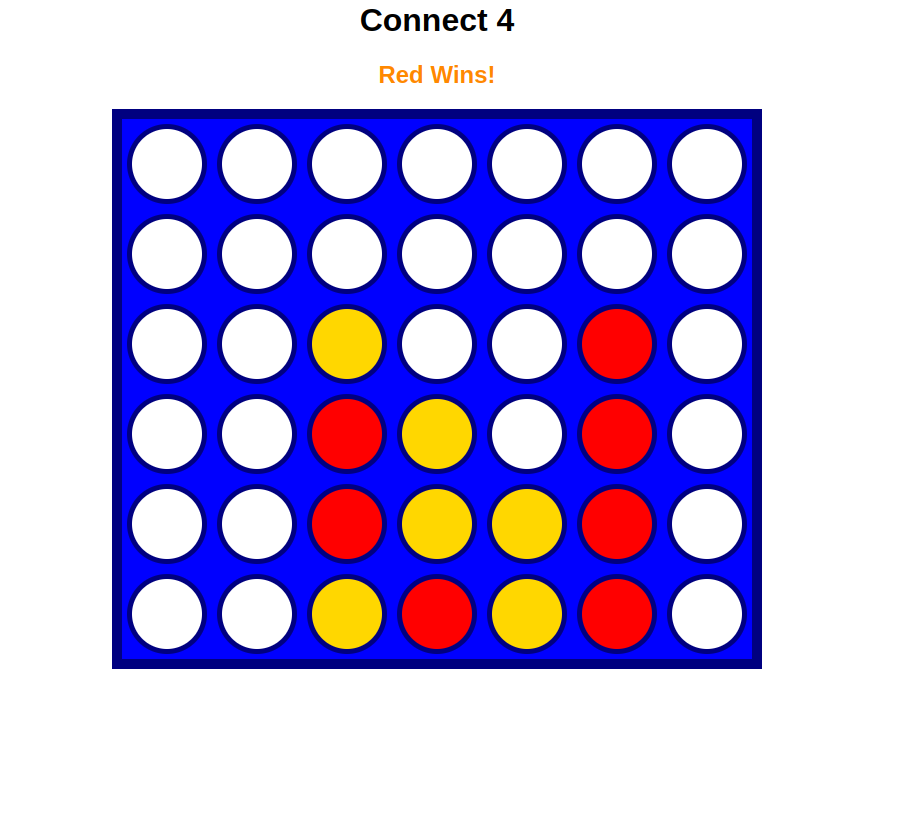
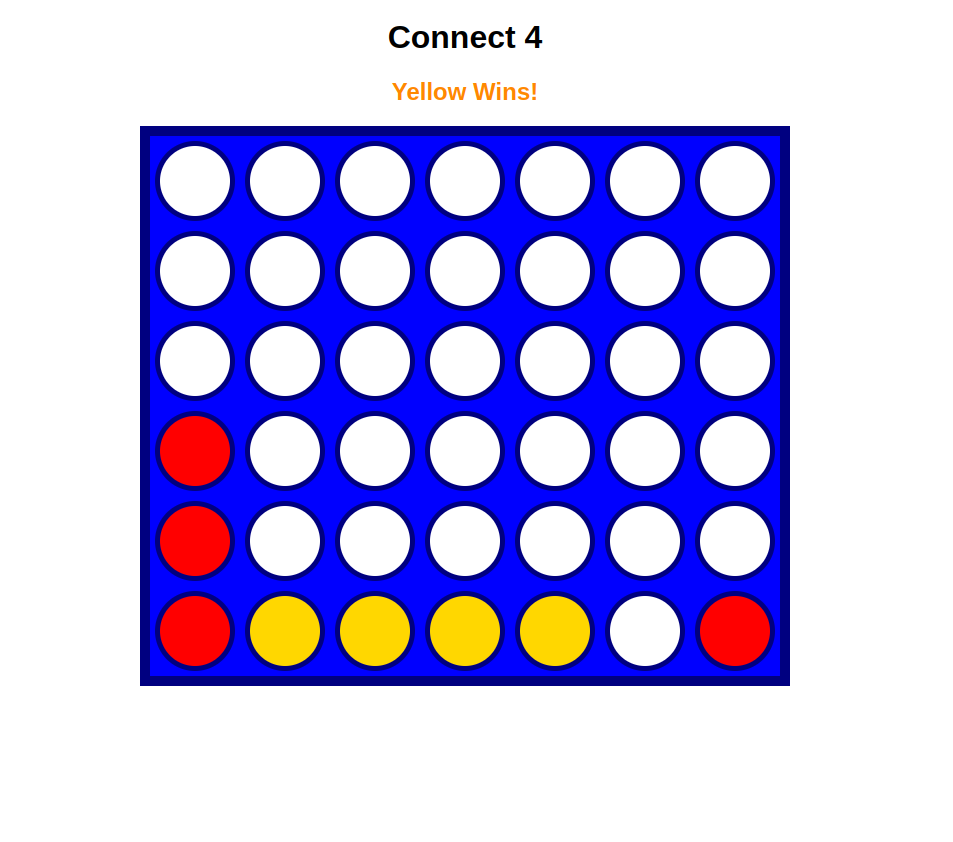
Add Image and Edit README file

Changed region(s): [[0.1228, 0.0, 0.8596, 0.8262]]

diff --git a/README.md b/README.md
@@ -5,7 +5,11 @@
 - The game is won when a player makes four in a row (horizontally, vertically, or diagonally and anti-diagonally). The game is a tie if the entire board fills up without a winner.
 
 ### Display
-1. ![](./images/Connect-41.png);
-2. ![](./images/Connect-42.png);
-3. ![](./images/Connect-43.png);
+#### Vertically
+1. ![](./images/Connect-41.png)
+#### Horizontally
+2. ![](./images/Connect-42.png)
+#### Diagonally
+3. ![](./images/Connect-43.png)
+#### Anti-Diagonally
 4. ![](./images/Connect-44.png)
